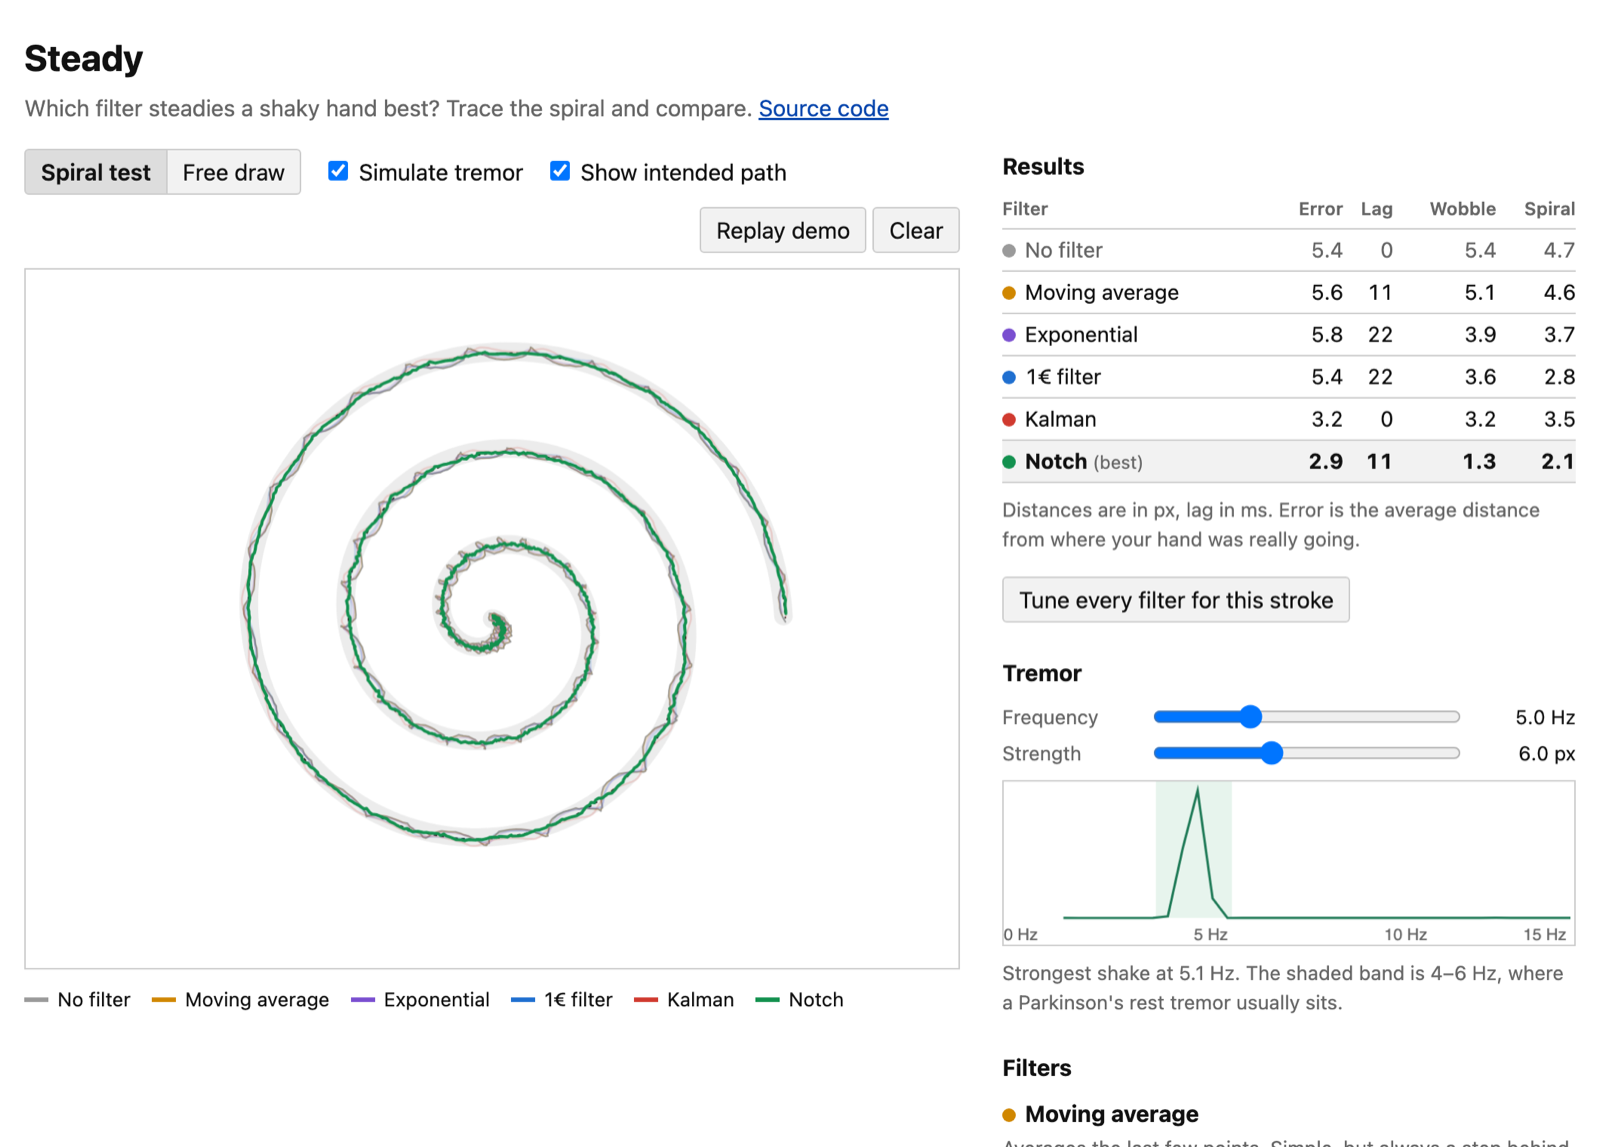
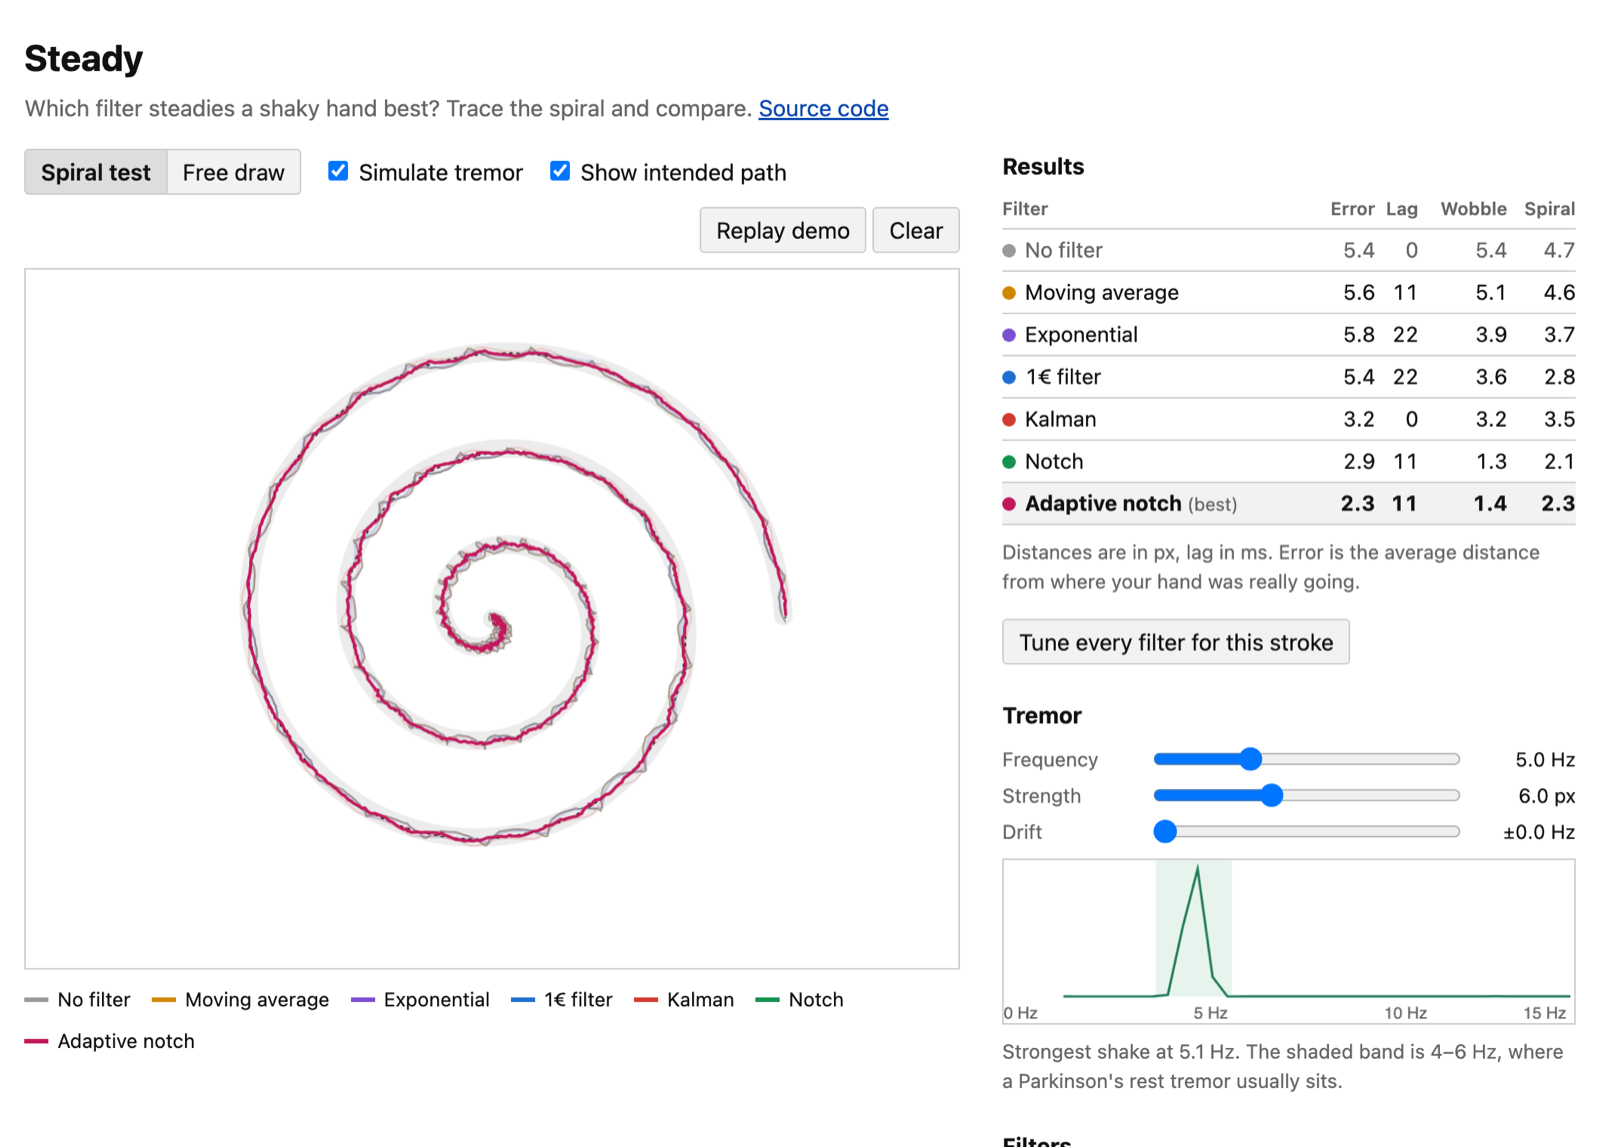
README wording, new screenshot

diff --git a/README.md b/README.md
@@ -8,10 +8,7 @@ When I was working on [TypeParkinson](https://github.com/BurTheBear/TypeParkinso
 
 ## What it does
 
-- **Spiral test.** You trace an Archimedean spiral. This is the same shape doctors use in spiral-drawing tests for tremor. Steady measures how far each filter's version strays from it.
-- **Simulated tremor.** A 4–6 Hz wobble (the usual range for a Parkinson's rest tremor) is added on top of your pointer, so you know exactly what you *meant* to draw. That makes it possible to score error, lag and leftover wobble separately.
-- **Spectrum.** It resamples your input to 100 Hz and runs a Fourier transform to find the strongest shake frequency.
-- **Tune.** One button grid-searches each filter's settings for the stroke you just drew.
+In the spiral test you trace an Archimedean spiral, the same shape used in spiral-drawing tests for tremor, and each filter is scored on how far it strays from it. With the simulation on, a 4 to 6 Hz wobble (the usual range for a Parkinson's rest tremor) is added on top of your pointer. That means the page knows exactly what you meant to draw, so it can measure error, lag and leftover wobble separately. It also resamples your input to 100 Hz and runs a Fourier transform to find the strongest shake frequency. The Tune button tries a grid of settings for every filter and keeps the best ones for the stroke you just drew.
 
 ## The filters
 
